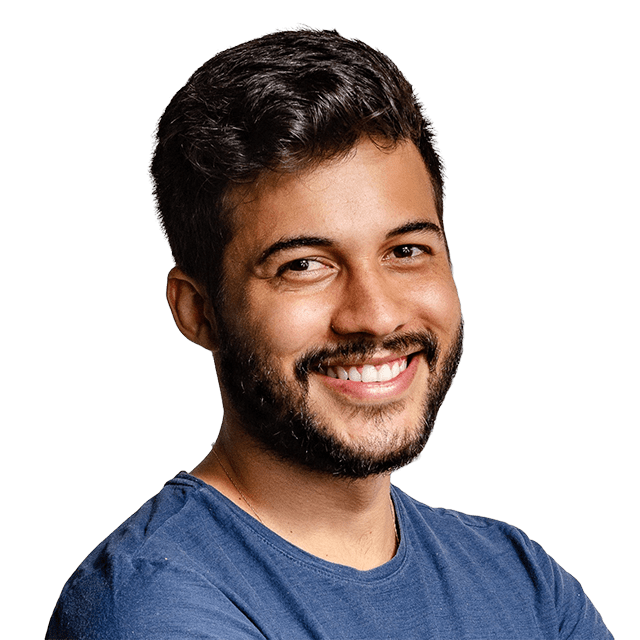
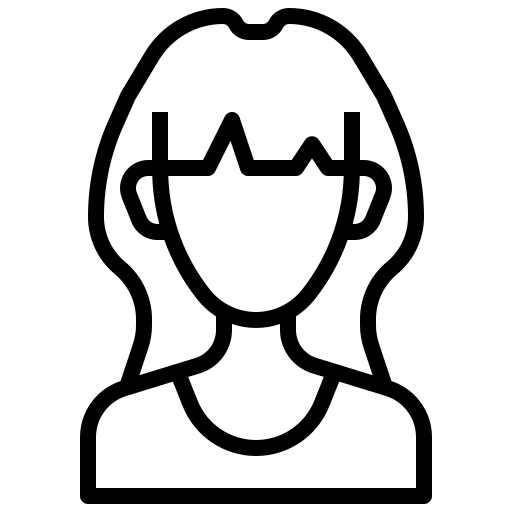
사진 수정

diff --git a/content/ko/authors/admin/_index.md b/content/ko/authors/admin/_index.md
@@ -23,7 +23,7 @@ superuser: true
 highlight_name: true
 
 # Role/position/tagline
-role: 컴퓨터공학 전공자
+role: 컴퓨터공학 전공
 
 # Organizations/Affiliations to display in Biography blox
 organizations:
